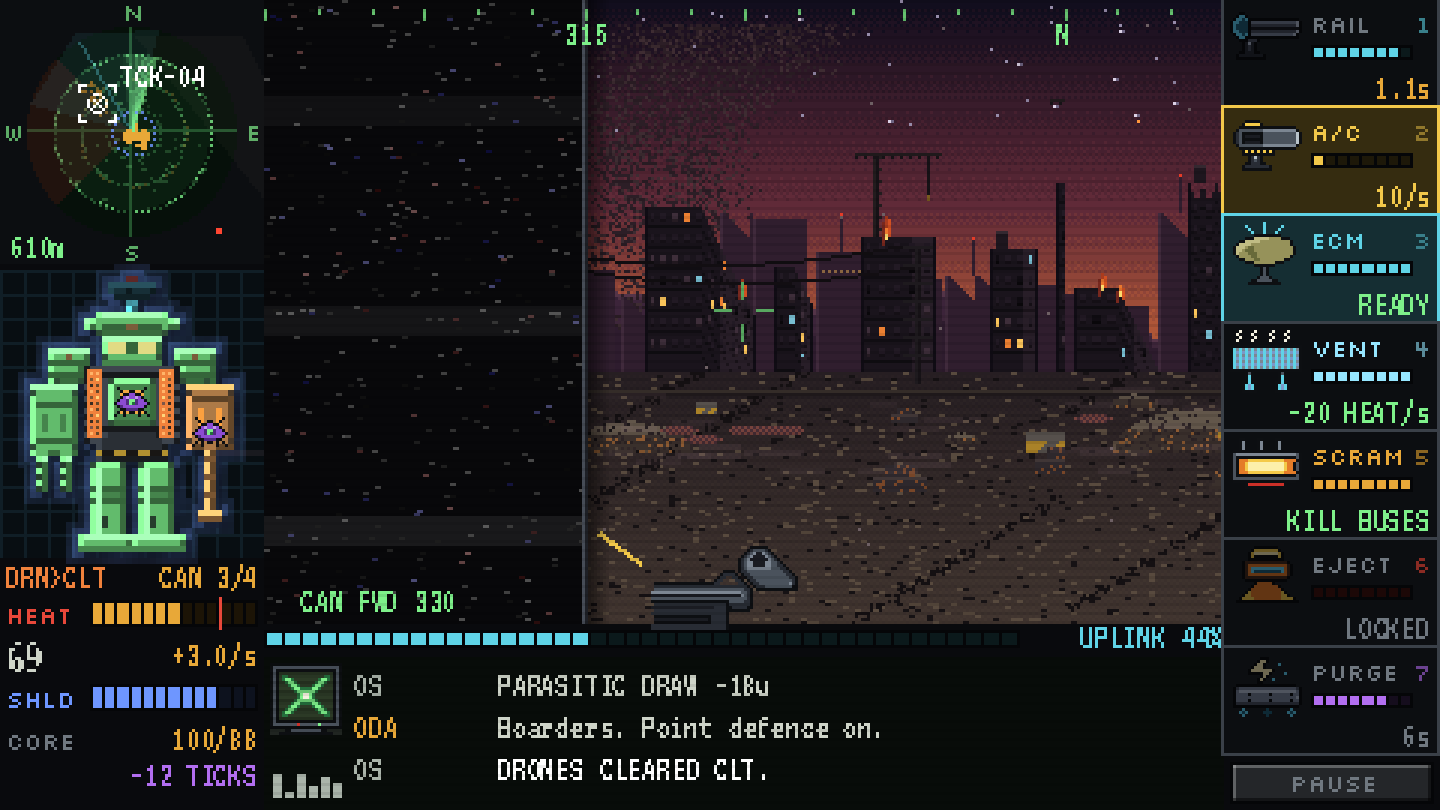
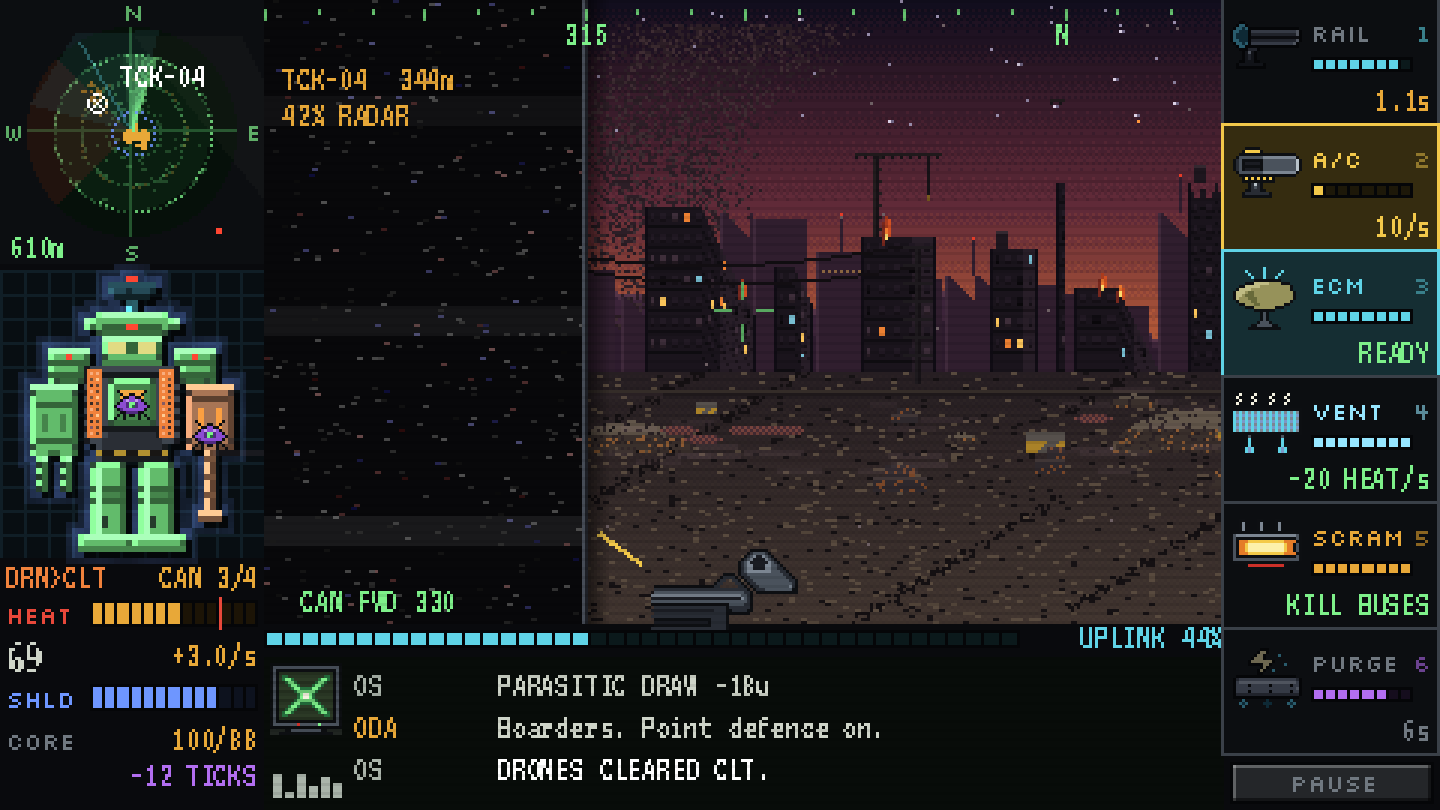
Mobile loops 15-25: boot bake, hangar touch targets, tap ripples, target and incoming readouts, menu fps cap, uplink tap, haptics toggle, docs
Claude-Session: https://claude.ai/code/session_0185kqkbtDYzfnnQofExGTRs

diff --git a/README.md b/README.md
@@ -24,11 +24,17 @@ at a pixel-perfect 480x270 that the engine scales by whole numbers.
 
 ![Godot hangar](docs/godot/hangar.png)
 
-- **Look around** by dragging the camera feed or turning the phone (gyroscope yaw); TAB /
-  arrow keys snap between the four hull cameras on a keyboard.
-- **Tap** a radar blip or a contact in the feed to target it, a hull section to send the
-  repair drones there, a station on the right to use it. Keys 1-7, SPACE, V, X, E, T, P still
-  work.
+- **Look around** by swiping the camera feed or turning the phone (gyroscope yaw). The view
+  settles on whole cameras, a flick jumps to the next one, and arcs with a dead camera show
+  static behind a bezel edge. TAB / arrow keys do the same on a keyboard.
+- **Tap** a radar blip or a contact in the feed to target it, and tap the locked contact
+  again to fire the rail. Tap a hull section (or the uplink bar) to send the repair drones
+  there, a station on the right to use it. EJECT appears on the overload banner only.
+  Keys 1-6, SPACE, V, X, E, T, P still work.
+- **Phone manners**: the app pauses when it loses focus, the back button pauses, the
+  campaign is saved between operations and resumes in the hangar, a lost op can be retried,
+  wide (20:9) screens get a riveted bezel, short buzzes mark shots and hits (toggle in the
+  pause menu, with the gyro), and the first op shows three one-line hints.
 - **No crawling through the hull.** The phone version drops the interior and the pilot
   leaving the chair. Boarders are fried by the **PURGE** station (electrify the plating,
   +16 heat, 20 s cooldown) or pried off by the repair drones when you send them to the boarded

diff --git a/AGENTS.md b/AGENTS.md
@@ -35,7 +35,14 @@ owns the campaign, the sim and the screenshot plan; `ui/shots.gd` stages the sce
   Known divergence: **no pilot EVA / interior** in Godot. Boarders are cleared by the PURGE
   station (`cmd_purge`, `PURGE_HEAT`, `PURGE_CD`) or by the repair drones when the repair
   target is the boarded section (`BOARDER_WORK`); drones at SENSORS rewire the worst camera.
-  Staged scenes are `briefing combat boarded overload hangar` (`ui/shots.gd`).
+  Staged scenes are `briefing combat boarded overload hangar` (`ui/shots.gd`), plus `pause`.
+- Phone behaviour lives in `ui/main.gd` (focus-loss pause, back button, `Campaign.save()` /
+  `load_saved()` to `user://campaign.json`, the centred layout + bezel for canvases wider than
+  480x270 via `_off`, 30 fps cap in menus) and `ui/cockpit.gd` (view settles on a camera after
+  0.45 s still, flick = next camera, `Input.vibrate_handheld` haptics, settings in
+  `user://settings.cfg`: gyro, haptics, first-op hint stage). `Theme2.touch` is true only on
+  the mobile export and hides keyboard tags. The hull body is baked into an `ImageTexture`
+  12x a second (`_hull_bake`), not drawn cell by cell.
 - `art/sprites.gd` holds the grids, `art/pixel.gd` bakes them to cached textures,
   `art/hull.gd` the section map + detail overlay, `art/city.gd` the panorama and hangar.
 - GDScript gotchas met so far: `var x := [a, b][i]` fails to parse (type cannot be inferred;
